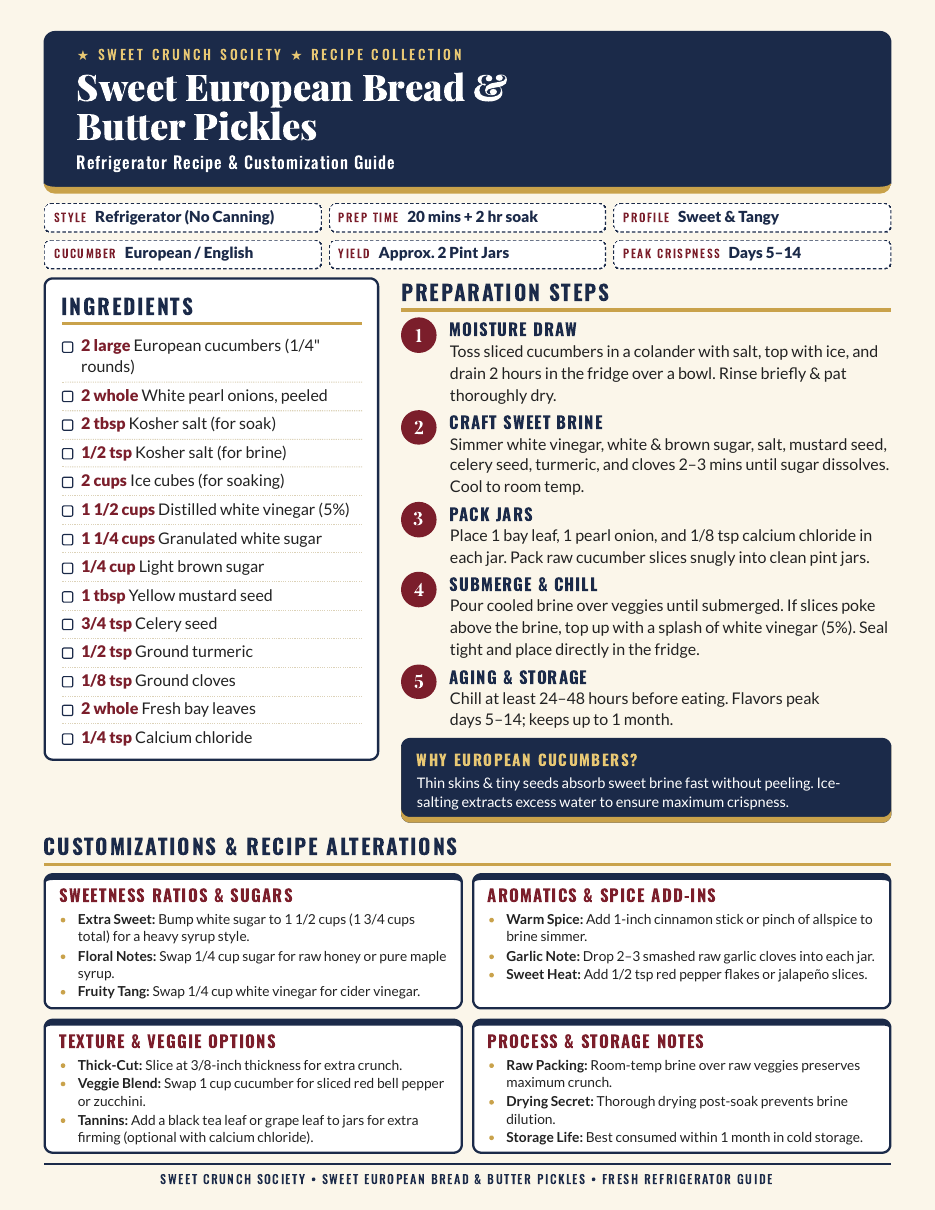
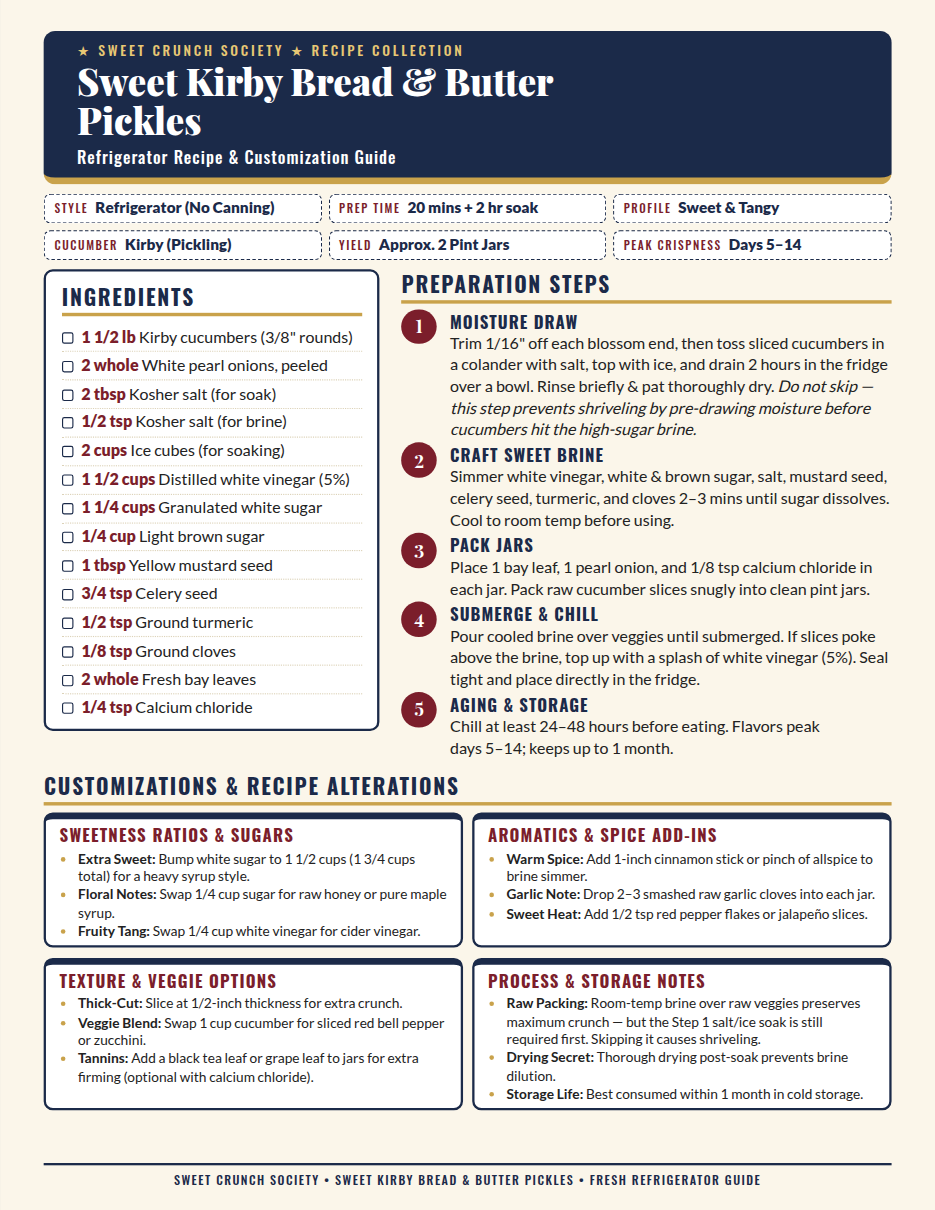
docs: refresh preview and README for Kirby switch; bump thick-cut to 1/2"
README
- Intro now names Sweet Kirby Bread & Butter Pickles and mentions the
  second card, index-zesty.html (Zesty Garlic Dill).
- "Why" section says Kirby pickling cucumbers and explains the change:
  European cucumbers shriveled in early test batches, Kirbys are firmer
  and lower in water.
- "Editing the recipe" lists both HTML files.

index.html
- Thick-Cut tip changed from 3/8" to 1/2" since 3/8" is now the default
  cut. Matches the same change already made in index-zesty.html.

docs/preview.png
- Regenerated from index.html (935x1210) to show the Kirby title, 3/8"
  chips, blossom-end trim, and "cool to room temp" brine step. Verified
  the card still fits on one Letter page.

Changed region(s): [[0.031, 0.0306, 0.9615, 0.9785]]

diff --git a/index.html b/index.html
@@ -191,7 +191,7 @@
         <div class="card">
           <h3>Texture &amp; Veggie Options</h3>
           <ul>
-            <li><b>Thick-Cut:</b> Slice at 3/8-inch thickness for extra crunch.</li>
+            <li><b>Thick-Cut:</b> Slice at 1/2-inch thickness for extra crunch.</li>
             <li><b>Veggie Blend:</b> Swap 1 cup cucumber for sliced red bell pepper or zucchini.</li>
             <li><b>Tannins:</b> Add a black tea leaf or grape leaf to jars for extra firming (optional with calcium chloride).</li>
           </ul>

diff --git a/README.md b/README.md
@@ -1,6 +1,6 @@
 # Sweet Crunch Society
 
-A printable, single-page recipe card for **Sweet European Bread & Butter Pickles**, a refrigerator (no-canning) clone of the store-bought classic.
+A printable, single-page recipe card for **Sweet Kirby Bread & Butter Pickles**, a refrigerator (no-canning) clone of the store-bought classic. A second card, `index-zesty.html`, covers **Zesty Garlic Dill Refrigerator Pickles**.
 
 ![Preview of the printed recipe card](docs/preview.png)
 
@@ -21,7 +21,7 @@ Sources: [UMN Extension: Pickling basics](https://extension.umn.edu/preserving-a
 
 ## Why
 
-Store-bought bread & butter pickles are sweet, tangy, and very crunchy. This recipe recreates that at home with European cucumbers, a salt-and-ice soak, and calcium chloride for extra snap. The card is one self-contained HTML file that prints cleanly on US Letter paper, so it can live on the fridge or in a recipe binder.
+Store-bought bread & butter pickles are sweet, tangy, and very crunchy. This recipe recreates that at home with Kirby pickling cucumbers, a salt-and-ice soak, and calcium chloride for extra snap. Kirbys are used because they are firmer and lower in water than European cucumbers, which shriveled in early test batches. The card is one self-contained HTML file that prints cleanly on US Letter paper, so it can live on the fridge or in a recipe binder.
 
 ## The recipe at a glance
 
@@ -41,4 +41,4 @@ Store-bought bread & butter pickles are sweet, tangy, and very crunchy. This rec
 
 ## Editing the recipe
 
-All recipe text is plain HTML in `index.html`. Ingredients are `<li>` items in the Ingredients section, steps are `<li>` items in the Preparation Steps `<ol>`, and the four customization cards are at the bottom. The page is fixed to one Letter sheet, so if you add a lot of text, check the print preview for overflow.
+All recipe text is plain HTML in `index.html` (sweet B&B) and `index-zesty.html` (garlic dill). Ingredients are `<li>` items in the Ingredients section, steps are `<li>` items in the Preparation Steps `<ol>`, and the four customization cards are at the bottom. The page is fixed to one Letter sheet, so if you add a lot of text, check the print preview for overflow.
